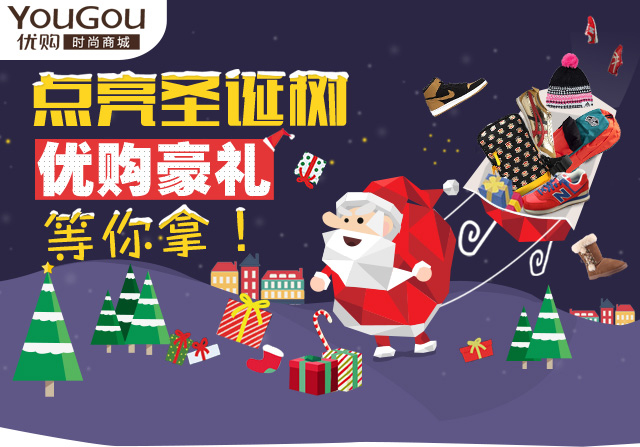
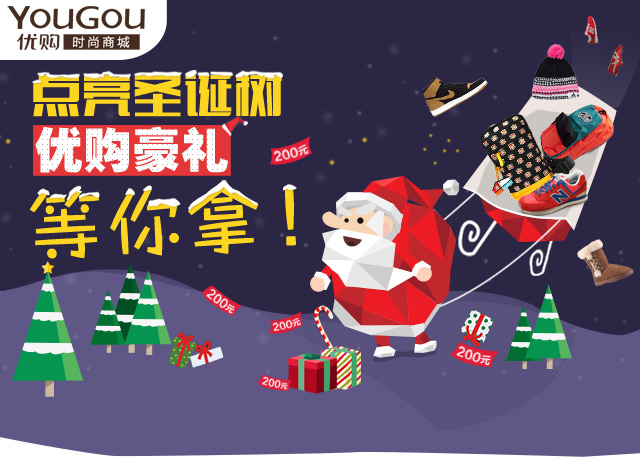
update ui

diff --git a/webot/wxbot/index.js b/webot/wxbot/index.js
@@ -57,7 +57,7 @@ module.exports = function(webot) {
         },
         handler: function(info, next) {
             XmasServices.start(info.uid).then(function(xmas) {
-                if (xmas.bonus >= 40) {
+                if (xmas.bonus >= 42) {
                     info.text = '2014ACODEFORXMASFROMWEIXIN';
                     next();
                 } else {
@@ -73,7 +73,7 @@ module.exports = function(webot) {
                         url = conf.xmas_root + "/xmas/" + xmas.id + "/grant";
 
                         return next(null, [
-                            '亲~祝你圣诞快乐！速度抱走一棵圣诞树，召集小伙伴一起将你的圣诞树点亮，就有机会抢到优购200元礼品卡和NIKE/ADIDAS/大嘴的惊喜礼品哦！',
+                            '亲~祝你圣诞快乐！速度抱走圣诞树，召集小伙伴一起将树上的装饰灯点亮，就有机会赢取优购（←国内最大的时尚鞋服电商）200元礼品卡和LEE/大嘴猴/Moussy的惊喜礼品哦！',
                             '\n<a href="' + url + '">点击这里</a>参与游戏，快来赢取圣诞豪礼啦！'
                         ].join("\n"));
                     }

diff --git a/xmas/public/javascripts/effect.js b/xmas/public/javascripts/effect.js
@@ -7,7 +7,7 @@ $().ready(function() {
         nums = [],
         map = {};
 
-    for (var i=0; i<40; i++) {
+    for (var i=0; i<42; i++) {
         nums.push(i);
     }
 
@@ -15,7 +15,7 @@ $().ready(function() {
         return Math.random() > 0.5 ? -1 : 1;  
     });
 
-    if (count > 40) { count = 40; }
+    if (count > 42) { count = 42; }
 
     while(count > 0) {
         var idx = nums.pop();
@@ -26,7 +26,7 @@ $().ready(function() {
     $(".gift").each(function(i, element) {
         var count = 100 * Math.random();
         if (map[i]) {
-            $(element).addClass("twinking-" + (parseInt(count)%5));
+            $(element).removeClass("gift-gray");
         }
     });
 });
